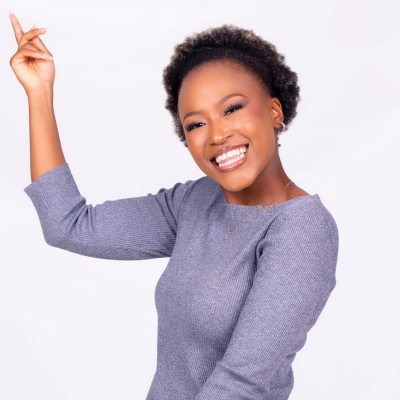
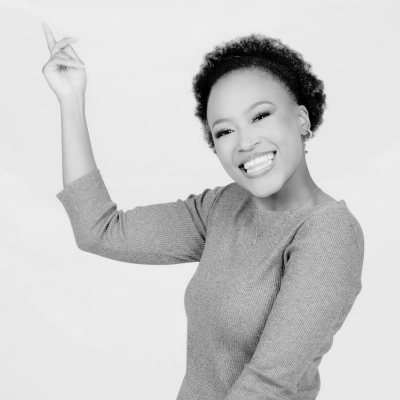
"updated photos"

diff --git a/index.html b/index.html
@@ -41,11 +41,12 @@
       <!--/.navbar-header-->
       <div id="main-nav" class="collapse navbar-collapse">
         <ul class="nav navbar-nav" id="mainNav">
-          <li><a href="upload.html" class="scroll-link">Upload Photo</a></li>
-          <li><a href="#services" class="scroll-link">Events</a></li>
-          <li><a href="#aboutUs" class="scroll-link">About Us</a></li>
+          <li><a href="https://docs.google.com/forms/d/e/1FAIpQLSfZ0MjXqhsuFg0BKwlDI0bRbl3hPy8e7JtkpudTqwvDbvaQaw/viewform?usp=sf_link" class="scroll-link">Upload Photo</a></li>
+          <li><a href="https://teams.live.com/meet/9445248614543?p=vs64DBSkI0l0dbKNyG" class="scroll-link">Live Stream Link</a></li>
+          <li><a href="https://maps.app.goo.gl/BSREqEfJNfDZu9em7">Directions</a></li>
           <li><a href="#work" class="scroll-link">Program of the day</a></li> 
           <li><a href="#team" class="scroll-link">Bridal Team</a></li>
+          <li><a href="#service-providers" class="scroll-link">Service Providers</a></li>
         </ul>
       </div>
       <!--/.navbar-collapse--> 
@@ -90,7 +91,7 @@
             </div>
             <div class="service-info">
               <h3>Wedding Day</h3>
-              <p>Customary marriage held between the two families</p>
+              <p>Come let us join together</p>
             </div>
           </div>
           <div class="col-sm-4 wow fadeInDown animated" data-wow-duration="1000ms" data-wow-delay="550ms" style="visibility: visible; animation-duration: 1000ms; -webkit-animation-duration: 1000ms; animation-delay: 550ms; -webkit-animation-delay: 550ms; animation-name: fadeInDown; -webkit-animation-name: fadeInDown;">
@@ -99,7 +100,7 @@
             </div>
             <div class="service-info">
               <h3>Reception</h3>
-              <p>Lorem ipsum dolor sit amet, consectetur adipisicing elit, sed do eiusmod tempor incididunt ut labore et dolore</p>
+              <p>Come join us for a joyous celebration following our wedding ceremony. Your presence will make our day complete!</p>
             </div>
           </div>
           
@@ -109,7 +110,7 @@
             </div>
             <div class="service-info">
               <h3>Lunch</h3>
-              <p>Lorem ipsum dolor sit amet, consectetur adipisicing elit, sed do eiusmod tempor incididunt ut labore et dolore</p>
+              <p>Indulge in delicious food, raise a toast to love and laughter, and dance the night away with us.</p>
             </div>
           </div>
         </div>
@@ -237,7 +238,7 @@
             <!-- Image Hover Block -->
             <div class="member-img"> 
               <!-- Image  --> 
-              <img class="img-responsive" src="images/photo-3.jpg" alt=""> </div>
+              <img class="img-responsive" src="images/img-4.png" alt=""> </div>
             <!-- Member Details -->
             <h4>Grace Zichawo</h4>
             <!-- Designation --> 
@@ -250,7 +251,7 @@
           <!-- Image Hover Block -->
           <div class="member-img"> 
             <!-- Image  --> 
-            <img class="img-responsive" src="images/photo-1.jpg" alt=""> </div>
+            <img class="img-responsive" src="images/img-5.png" alt=""> </div>
           <!-- Member Details -->
           <h4>Ashley Mapfumo</h4>
           <!-- Designation --> 
@@ -262,7 +263,7 @@
           <!-- Image Hover Block -->
           <div class="member-img"> 
             <!-- Image  --> 
-            <img class="img-responsive" src="images/photo-3.jpg" alt=""> </div>
+            <img class="img-responsive" src="images/img-6.png" alt=""> </div>
           <!-- Member Details -->
           <h4>Priviledge Bvinikwa</h4>
           <!-- Designation --> 
@@ -284,6 +285,38 @@
     </div>
   </div>
   <!--/.container--> 
+
+  <section id="service-providers" class="page-section page">
+    <div class="container text-center">
+      <div class="heading wow fadeInUp animated" data-wow-duration="1000ms" data-wow-delay="300ms">
+        <div class="row">
+          <div class="text-center col-sm-8 col-sm-offset-2">
+            <h2>Service Providers</h2>
+          </div>
+        </div>
+      </div>
+      <div class="row">
+        <div class="col-md-4 service-provider">
+          <div class="provider-photo"><img class="img-responsive" src="images/img-3.png" alt="Provider Photo"></div>
+          <h4>Deco</h4>
+          <p>Morveck Events</p>
+          <p>Contact: (123) 456-7890</p>
+        </div>
+        <div class="col-md-4 service-provider">
+          <div class="provider-photo"><img class="img-responsive" src="images/img-3.png" alt="Provider Photo"></div>
+          <h4>Catering Services</h4>
+          <p>Gourmet Bites</p>
+          <p>Contact: (987) 654-3210</p>
+        </div>
+        <div class="col-md-4 service-provider">
+          <div class="provider-photo"><img class="img-responsive" src="images/img-3.png" alt="Provider Photo"></div>
+          <h4>Photography</h4>
+          <p>Moments Captured</p>
+          <p>Contact: (555) 123-4567</p>
+        </div>
+      </div>
+    </div>
+  </section>
 </section>
 <section id="contactUs" class="contact-parlex">
   <div class="parlex-back">
